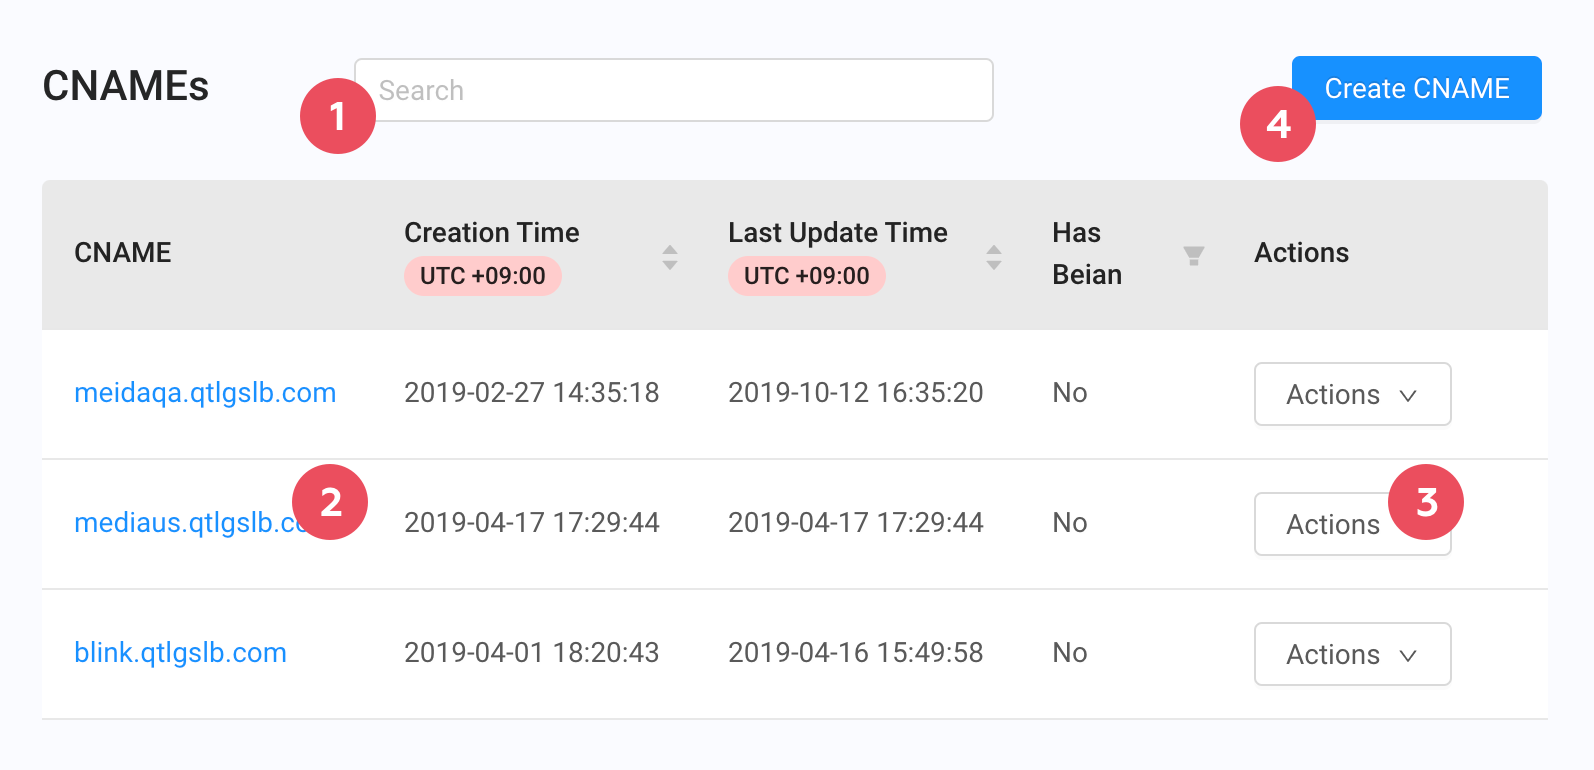
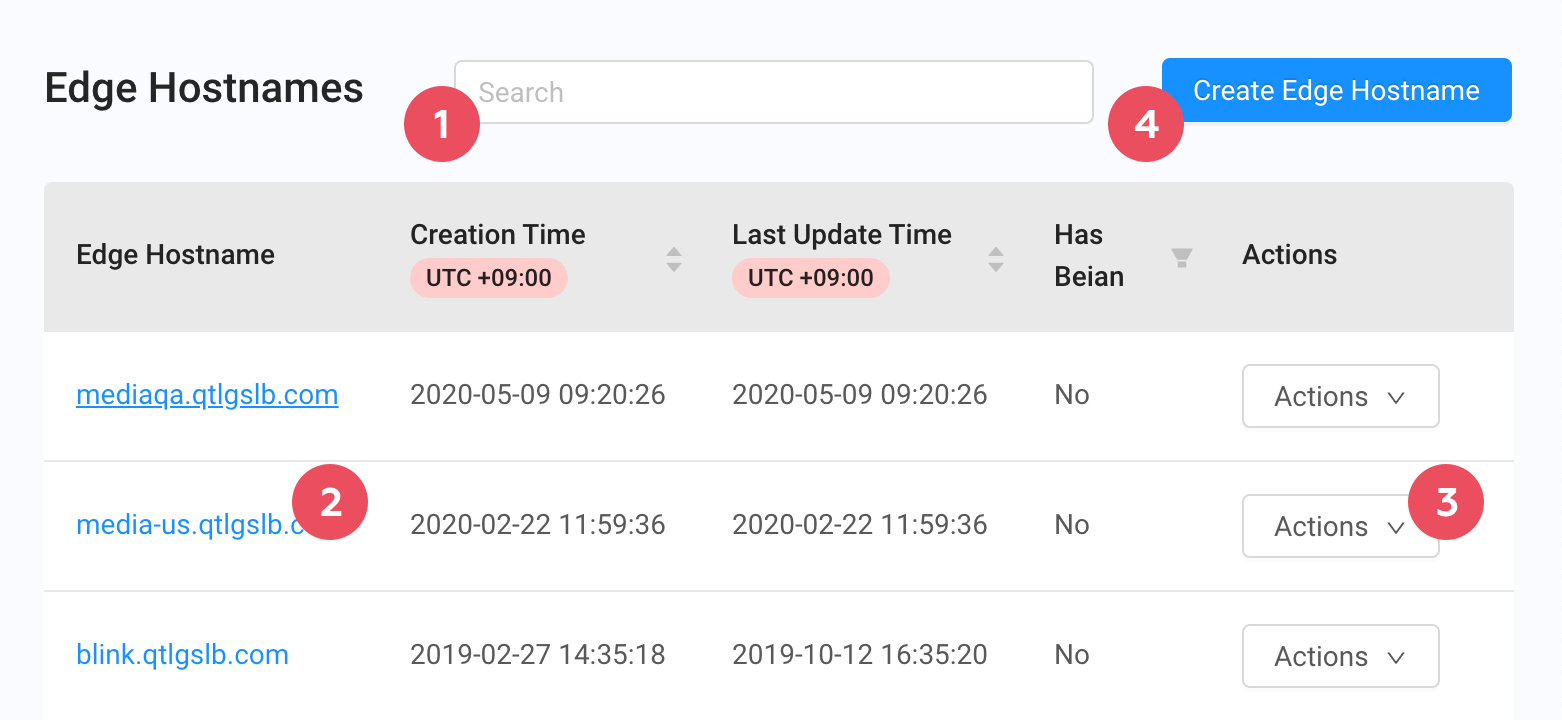
Traffic Management images replaced

diff --git a/docs/portal/traffic-management/creating-edge-hostname.md b/docs/portal/traffic-management/creating-edge-hostname.md
@@ -8,7 +8,7 @@ Creating an Edge Hostname is a three-step process:
 2. At the top right of the screen, click the **Create Edge Hostname** button. 
 3. Complete the fields in the Create an Edge Hostname form. Required fields are denoted by an asterisk (\*).
 
-<p align=center><img src="/docs/resources/images/traffic-management/create-a-cname.png" alt="cname overview page" width="900"></p>
+<p align=center><img src="/docs/resources/images/traffic-management/create-edge-hostname.png" alt="cname overview page"></p>
 
 
 | **Fields**                               | **Description**                     |
@@ -16,13 +16,13 @@ Creating an Edge Hostname is a three-step process:
 | Description. | Enter a description for the CNAME.  |
 | Hostname       | Either enter the first part of the edge hostname manually in the text field or click the **Auto Generate** button to generate a random one. |
 
-4. Click the **Create Client Zone Rule** button. The Create Client Zone Rule dialog box appears, with fields to define the client zone and how to handle requests come from it. Required fields are denoted by an asterisk (\*).
+1. Click the **Create Client Zone Rule** button. The Create Client Zone Rule dialog box appears, with fields to define the client zone and how to handle requests come from it. Required fields are denoted by an asterisk (\*).
 
 <ul><li>a. Complete all the fields, and then click the <strong>Create Client Zone Rule</strong> button. </li>
 <li>b. To specify more client zone rules, repeat step 4a for each additional rule.</li></ul>
 
 **Note**: A default rule covering ALL regions and ALL ISPs will be created automatically if you don't define one.
-<p align=center><img src="/docs/resources/images/traffic-management/create-client-zone-rule.png" alt="createclient region rule" width="500"></p>
+<p align=center><img src="/docs/resources/images/traffic-management/create-client-zone-rule.png" alt="createclient region rule"></p>
 
 | **Fields**        | **Description**                                                           |
 | ----------------- | ------------------------------------------------------------------------- |
@@ -35,7 +35,7 @@ Creating an Edge Hostname is a three-step process:
 
 1. Expand **Advanced Settings**, and then confirm or change the following field.
 
-<p align=center><img src="/docs/resources/images/traffic-management/traffic-management-advanced-settings.png" alt="advanced settings" width="600"></p>
+<p align=center><img src="/docs/resources/images/traffic-management/edge-hostname-advanced-settings.png" alt="advanced settings" width="400"></p>
 
 | **Fields**      | **Description**                                              |
 | --------------- | ------------------------------------------------------------ |

diff --git a/docs/portal/traffic-management/editing-edge-hostname.md b/docs/portal/traffic-management/editing-edge-hostname.md
@@ -5,7 +5,7 @@
 3. At the top right of the page, click the **Edit** button.
 
 The Edge Hostname form appears for creating, editing, and deleting client zone rules and changing advanced settings. For more information, refer to the topics below.
-<p align=center><img src="/docs/resources/images/traffic-management/traffic-management-edit-cname.png" alt="edit cname form" width="900"></p>
+<p align=center><img src="/docs/resources/images/traffic-management/traffic-management-edit-edge-hostname.png" alt="edit cname form"></p>
 
 1. To create one or more client zone rules, perform the following steps.
 
@@ -13,7 +13,7 @@ The Edge Hostname form appears for creating, editing, and deleting client zone 
 <li>b. Complete all the fields, and then click the **Create Client Zone Rule** button.</li>
 <li>c. To add more client zone rules, repeat this step for each additional rule.</li></ul>
 
-<p align=center><img src="/docs/resources/images/traffic-management/create-client-zone-rule.png" alt="create client region rule" width="500"></p>
+<p align=center><img src="/docs/resources/images/traffic-management/create-client-zone-rule.png" alt="create client region rule"></p>
 
 | **Fields**        | **Description**   |
 | ----------------- | ----------------- |
@@ -34,7 +34,7 @@ The Edge Hostname form appears for creating, editing, and deleting client zone 
 
 <ul><li>a. Click the <strong>Actions</strong> drop-down list next to the rule you want to delete, and then select <strong>Delete</strong>.
 
-<p align=center><img src="/docs/resources/images/traffic-management/traffic-management-delete-cname.png" alt="cname delete" width="800"></p>
+<p align=center><img src="/docs/resources/images/traffic-management/edge-hostname-delete-zone-rule.png" alt="zone rule delete"></p>
 </li>
 </li>b. When prompted to confirm the deletion, click <strong>OK</strong> to delete the client zone rule.</li></ul>
 
@@ -43,7 +43,7 @@ The Edge Hostname form appears for creating, editing, and deleting client zone 
 
 1. To change the ICP Beian setting, expand **Advanced Settings** and make your change.
 
-<p align=center><img src="/docs/resources/images/traffic-management/traffic-management-advanced-settings.png" alt="cname advanced settings" width="700"></p>
+<p align=center><img src="/docs/resources/images/traffic-management/traffic-management-advanced-settings.png" alt="edge hostname advanced settings" width="700"></p>
 
 | **Fields**      | **Description** |
 | --------------- | --------------- |

diff --git a/docs/portal/traffic-management/overview.md b/docs/portal/traffic-management/overview.md
@@ -4,7 +4,7 @@ When a content-delivery network is not used, your service hostname should always
 
 In the left pane, click **Traffic Management** to see a page with a list of the edge hostnames in your account. The following figure shows the key elements on the page, and the table following the figure describes them.
 
-<p align=center><img src="/docs/resources/images/traffic-management/traffic-management-w-numbers.png" alt="edge hostname overview" width="900"></p>
+<p align=center><img src="/docs/resources/images/traffic-management/traffic-management-w-numbers.png" alt="edge hostname overview"></p>
 
 | **Fields**   | **Description**                                                                        |
 | :----------: | ---------------------------------------------------------------------------------------|
